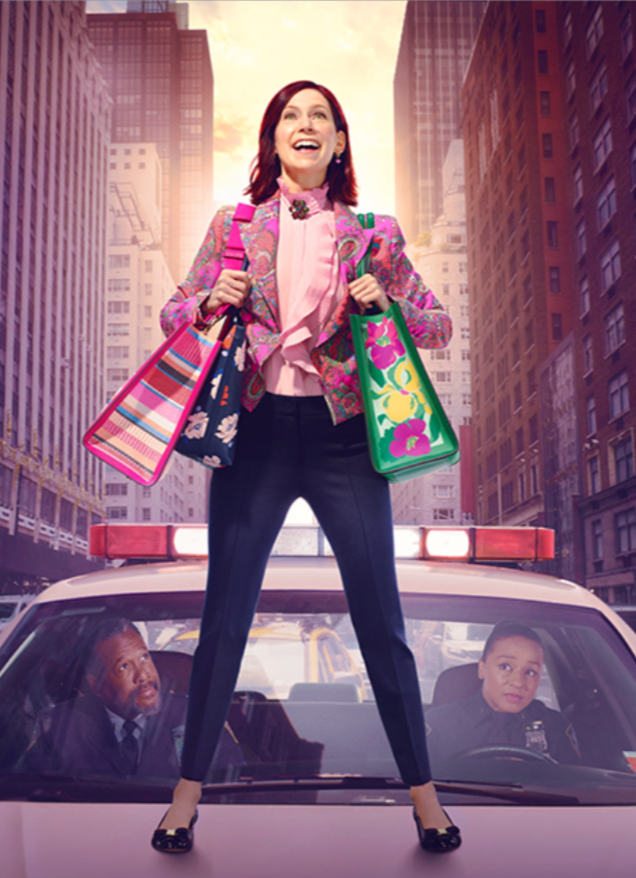
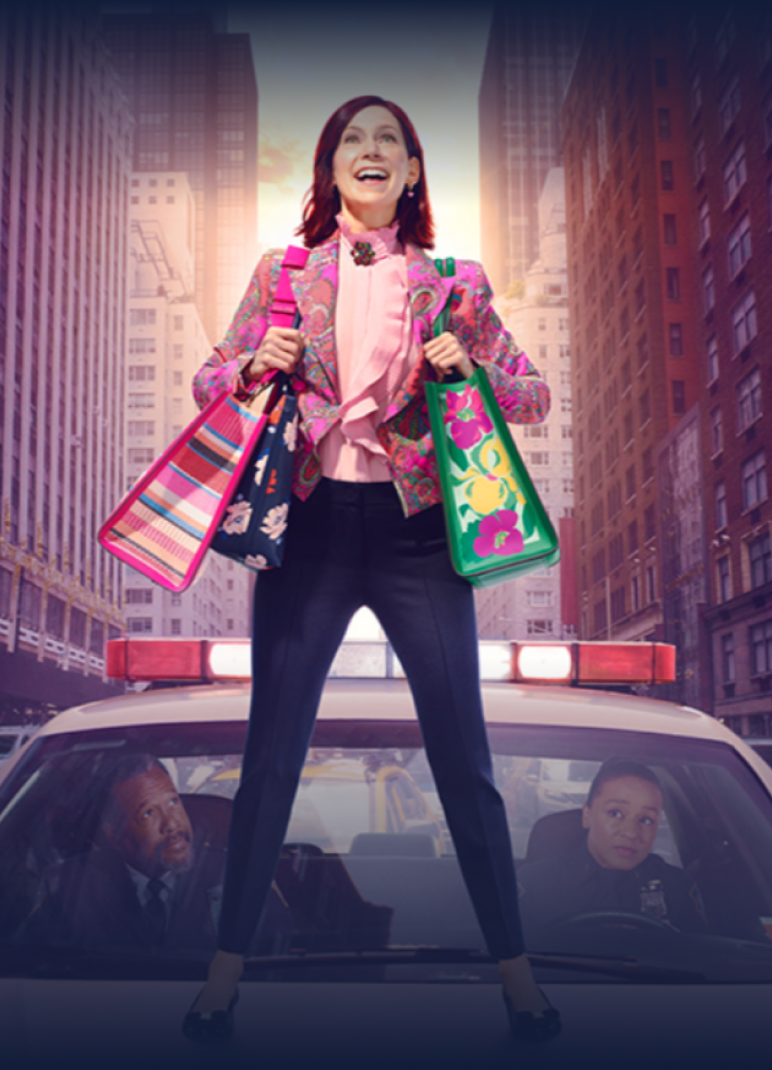
polished placements on HomeScreen

diff --git a/app/index.tsx b/app/index.tsx
@@ -6,51 +6,155 @@ import {
   Text,
   Image,
   ScrollView,
+  FlatList,
+  ImageBackground,
+  Dimensions,
 } from "react-native";
 import { colors } from "../themes/colors";
 import icons from "../assets/icons/icons";
-import Navbar from "../components/Navbar/Navbar";
-import InputField from "../components/Common/InputField";
 import Button from "../components/Common/Button";
 import SpecialButton from "../components/Common/SpecialButton";
-import ContentCardSearch from "../components/Cards/ContentCardSearch";
+import Navbar from "../components/Navbar/Navbar";
+import ContentCardVertical from "../components/Cards/ContentCardVertical";
+import { typography } from "@/themes/typography";
 
-export default function Page() {
+const contentCardData = [{ id: "1" }, { id: "2" }, { id: "3" }];
+
+const screenHeight = Dimensions.get("window").height;
+
+const browseCardData = [
+  { id: "1" },
+  { id: "2" },
+  { id: "3" },
+  { id: "4" },
+  { id: "5" },
+  { id: "6" },
+  { id: "7" },
+  { id: "8" },
+  { id: "9" },
+];
+
+// NOTE: see if you need to add props to button+specialButton in order to move them on Home
+
+export default function HomeScreen() {
   return (
     <SafeAreaView style={styles.safeArea}>
-      <View style={styles.iconContainer}>
-        <Image source={icons.profileIcon} style={styles.icon} />
-      </View>
-      <View style={styles.container}>
-        <InputField></InputField>
-        <ContentCardSearch></ContentCardSearch>
-        <Navbar></Navbar>
-        {/* PROFILE ICON
-            HOME: img, title, descript.
-            BUTTONS
-            TRENDING NOW
-            NAVBAR
-         */}
-      </View>
+      <ScrollView>
+        <ImageBackground
+          source={require("../assets/images/homePageElsbeth.png")}
+          style={styles.bannerBackground}
+          resizeMode="cover"
+        >
+          <View style={styles.iconContainer}>
+            <Image source={icons.profileIcon} style={styles.icon} />
+          </View>
+
+          <View style={styles.bannerContent}>
+            <Text style={styles.elsbethTitle}>Elsbeth</Text>
+            <Text style={styles.elsbethDescription}>
+              The odd but very intelligent lawyer solves crimes.
+            </Text>
+            <View style={styles.btnsContainer}>
+              <SpecialButton
+                title="WATCH NOW"
+                style={styles.watchNowBtn}
+              ></SpecialButton>
+              <View style={styles.blueBtnsContainer}>
+                <Button title="Read more" style={styles.blueBtn}></Button>
+                <Button
+                  title="Add to watch list"
+                  style={styles.blueBtn}
+                ></Button>
+              </View>
+            </View>
+          </View>
+        </ImageBackground>
+        <Text style={typography.mediumTitle}>Trending now</Text>
+        <FlatList
+          style={styles.trendCards}
+          data={contentCardData}
+          keyExtractor={(item) => item.id}
+          numColumns={3}
+          renderItem={({ item }) => <ContentCardVertical />}
+          contentContainerStyle={{ paddingHorizontal: 16 }}
+        />
+        {/* <FlatList
+          style={styles.browseCards}
+          data={browseCardData}
+          keyExtractor={(item) => item.id}
+          numColumns={3}
+          renderItem={({ item }) => <ContentCardVertical />}
+          contentContainerStyle={{ paddingHorizontal: 16 }}
+        /> */}
+        <Navbar style={styles.navbarContainer}></Navbar>
+      </ScrollView>
     </SafeAreaView>
   );
 }
 
 const styles = StyleSheet.create({
   safeArea: {
-    flex: 1,
     backgroundColor: colors.background,
   },
+  bannerBackground: {
+    flex: 1,
+    width: "100%",
+    minHeight: 500,
+    paddingBottom: 5,
+  },
   iconContainer: {
-    flexDirection: "row",
-    justifyContent: "flex-end",
+    width: "100%",
+    paddingTop: 5,
+    paddingRight: 5,
     alignItems: "flex-end",
   },
   icon: {
     width: 35,
     height: 35,
-    margin: 20,
+    margin: 15,
     resizeMode: "contain",
   },
-  container: {},
+  bannerContent: {
+    flex: 1,
+    justifyContent: "center",
+    alignItems: "center",
+    marginTop: 200,
+    marginBottom: 12,
+  },
+  elsbethTitle: {
+    color: "#fff",
+    fontSize: 28,
+    fontWeight: "bold",
+    marginBottom: 6,
+  },
+  elsbethDescription: {
+    color: colors.secondaryTextColor,
+    fontSize: 14,
+    fontWeight: "600",
+    marginBottom: 18,
+    textAlign: "center",
+  },
+  btnsContainer: {
+    justifyContent: "center", // Vertical centering inside this container
+    alignItems: "center", // Horizontal centering
+    marginVertical: 20,
+  },
+  watchNowBtn: {
+    alignSelf: "center",
+    marginBottom: 10,
+  },
+  blueBtnsContainer: {
+    flexDirection: "row",
+    justifyContent: "center",
+    marginBottom: 2,
+  },
+  blueBtn: {
+    marginHorizontal: 5,
+  },
+
+  trendCards: {},
+  browseCards: {},
+  navbarContainer: {
+    position: "sticky",
+  },
 });

diff --git a/components/Cards/ContentCardVertical.tsx b/components/Cards/ContentCardVertical.tsx
@@ -1,0 +1,63 @@
+import React from "react";
+import { Text, TouchableOpacity, StyleSheet } from "react-native";
+import { colors } from "../../themes/colors";
+
+type ContentCardVerticalProps = {
+  title: string;
+  onPress?: () => void;
+};
+
+export default function ContentCardVertical({
+  title,
+  onPress,
+}: ContentCardVerticalProps) {
+  return (
+    <TouchableOpacity style={styles.contentCard} onPress={onPress}>
+      <Text style={styles.contentCardTitle}>{title}</Text>
+    </TouchableOpacity>
+  );
+}
+
+const CARD_WIDTH = 100; // adjust to your design
+const CARD_HEIGHT = 150;
+
+const styles = StyleSheet.create({
+  contentCard: {
+    width: CARD_WIDTH,
+    height: CARD_HEIGHT,
+    backgroundColor: colors.contentCard,
+    borderRadius: 12,
+    margin: 8,
+    justifyContent: "center",
+    paddingLeft: 12,
+  },
+  contentCardTitle: {
+    color: colors.primaryTextColor,
+    fontSize: 16,
+  },
+});
+
+//TO BE PLACED IN SEARCH PAGE, IMPORT CONTENTCARDSEARCH, THEN WRITE THIS CODE TO MAKE GRID SYSTEM
+
+// const cardCategories = [
+//   { id: "1", title: "Movies" },
+//   { id: "2", title: "Series" },
+//   { id: "3", title: "Kids" },
+//   { id: "4", title: "Comedy" },
+//   { id: "5", title: "Documentary" },
+//   { id: "6", title: "Sports" },
+//   { id: "7", title: "Lifestyle" },
+//   { id: "8", title: "Talkshows" },
+// ];
+
+// export default function CategoryGrid() {
+//   return (
+//     <FlatList
+//       data={categories}
+//       keyExtractor={(item) => item.id}
+//       renderItem={({ item }) => <ContentCardVertical title={item.title} />}
+//       numColumns={2}
+//       contentContainerStyle={{ padding: 16 }}
+//     />
+//   );
+// }

diff --git a/components/Cards/ContentCardHorizontal.tsx b/components/Cards/ContentCardHorizontal.tsx
@@ -1,16 +1,16 @@
 import React from "react";
-import { View, Text, TouchableOpacity, StyleSheet } from "react-native";
+import { Text, TouchableOpacity, StyleSheet } from "react-native";
 import { colors } from "../../themes/colors";
 
-type ContentCardSearchProps = {
+type ContentCardHorizontalProps = {
   title: string;
   onPress?: () => void;
 };
 
-export default function ContentCardSearch({
+export default function ContentCardHorizontal({
   title,
   onPress,
-}: ContentCardSearchProps) {
+}: ContentCardHorizontalProps) {
   return (
     <TouchableOpacity style={styles.contentCard} onPress={onPress}>
       <Text style={styles.contentCardTitle}>{title}</Text>

diff --git a/themes/typography.ts b/themes/typography.ts
@@ -8,7 +8,7 @@ export const typography = {
   },
   mediumTitle: {
     fontFamily: "Alata",
-    fontSize: 10,
+    fontSize: 16,
     fontWeight: "600" as const,
     textTransform: "none" as const,
     color: "#FFFFFF",
